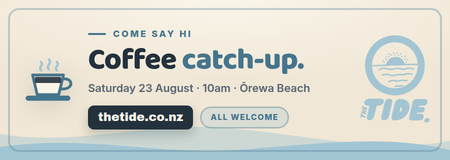
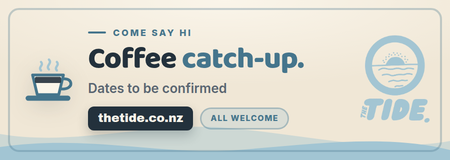
Say the coffee catch-up dates are to be confirmed
Replaces the stand-in date, time and place. The line is much shorter than
what it replaced, so the details size goes up to 13px to hold its own
against the headline. README notes what the copy column fits.

Claude-Session: https://claude.ai/code/session_01F7UvvodKiR66uJpLSPuWav

diff --git a/design/banner/coffee-catchup.html b/design/banner/coffee-catchup.html
@@ -128,7 +128,7 @@
 
       .sub {
         margin-top: 6px;
-        font-size: 11px;
+        font-size: 13px;
         font-weight: 600;
         line-height: 1.3;
         white-space: nowrap;
@@ -222,11 +222,11 @@
 
         <div class="copy">
           <!-- EDIT ME: the three lines below are the whole ad. They're set at
-               a fixed size and told not to wrap, so keep them about this
-               long — a longer line runs into the logo instead of shrinking. -->
+               a fixed size and told not to wrap, so a line much longer than
+               the headline runs into the logo instead of shrinking. -->
           <p class="eyebrow">Come say hi</p>
           <h1>Coffee <em>catch-up.</em></h1>
-          <p class="sub">Saturday 23 August · 10am · Ōrewa Beach</p>
+          <p class="sub">Dates to be confirmed</p>
           <div class="cta">
             <div class="url">thetide.co.nz</div>
             <div class="badge">All welcome</div>

diff --git a/design/banner/README.md b/design/banner/README.md
@@ -20,13 +20,15 @@ size. Override the browser with `CHROME=/path/to/chrome`. It needs Pillow
 ## Editing the copy
 
 The three lines marked `EDIT ME` in `coffee-catchup.html` — eyebrow, headline
-and details — are the whole ad. **The date, time and place currently in there
-are placeholders**; replace them before the banner goes out.
+and details — are the whole ad. The details line reads "Dates to be confirmed";
+swap in the real date, time and place once they're set.
 
-Keep all three about their current length. The strip is only 160px tall, so
-the headline and details line are set at a fixed size with `white-space:
-nowrap` — longer copy runs into the logo rather than wrapping or shrinking.
-Re-render and look at the PNG after any copy change.
+The strip is only 160px tall, so the headline and details line are set at a
+fixed size with `white-space: nowrap` — longer copy runs into the logo rather
+than wrapping or shrinking. The copy column is 260px, which at the details
+line's 13px is about 35 characters. A full date-time-place line is longer than
+that: drop `.sub` back to 11px, which buys roughly another six. Re-render and
+look at the PNG after any copy change.
 
 The cup and the logo flank the copy instead of stacking beside it, which is
 what the taller billboard layouts do — at this height there's no room for a
